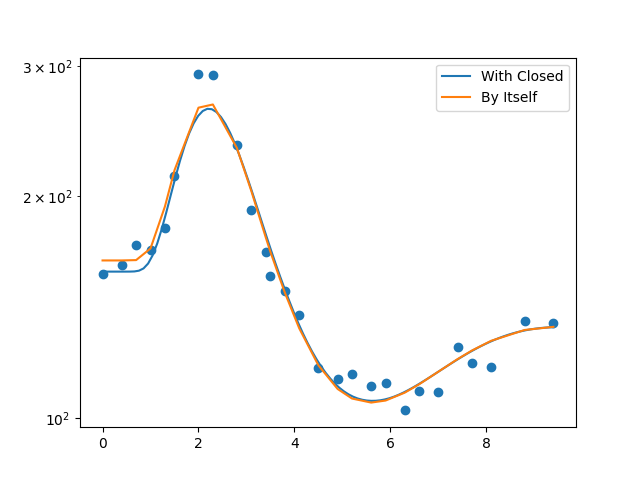
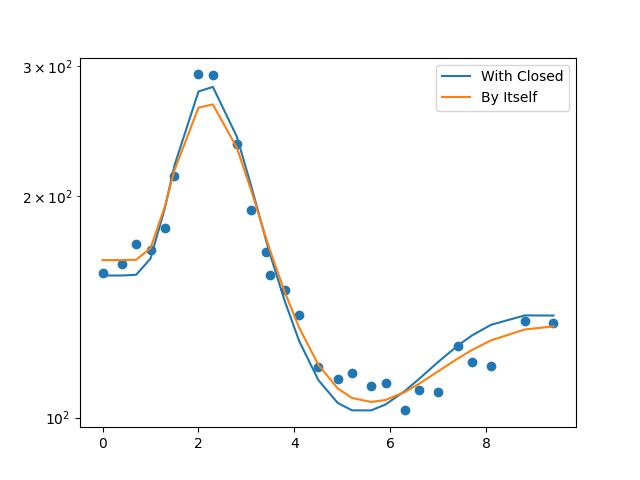
Created figs of S and P alone

diff --git a/Simulations/I0/I0_Script.py b/Simulations/I0/I0_Script.py
@@ -991,6 +991,183 @@ plt.savefig("OpenSystem_ALL.png")
 plt.close()
 
 
+#Fitting Smono open and closed all same time
+
+
+
+def MakeObjective_OffTimes_ClosedOpen(Model_Closed,Model_Open,datas,time):
+
+    def objective(params):
+        #alpha,b_closed,b_openMono,b_openCo,g1,g2,T,I0,X0_Closed,X0_OpenMono,X0_OpenCo = params
+        #alpha,b,I_closed,I_openMono,I_openCo,g1,g2,T,X0_Closed,X0_OpenMono,X0_OpenCo = params
+        alpha, b,I_closed,I_openMono,bI0,    g1_mono,g1_co,g2, T, X0_Closed,X0_OpenMono,X0_OpenCo = params
+
+        #ICs are Clsed X(0), Open X(0), and Open Q(0)
+        ICs = [10**X0_Closed]
+        #params= (alpha,b_closed,g1,g2,T,I0)
+        params = (alpha,b,g1_mono,g2,T,I_closed)
+        result_Closed = solve_ivp(Model_Closed,[0,time[0][-1]],ICs,args=tuple(params),
+                t_eval=time[0])
+
+
+
+        #params = (alpha,b_openMono,g1)
+        params = (alpha,b+I_openMono,g1_mono)
+        ICs = [10**X0_OpenMono]
+
+        result_OpenMono = solve_ivp(Model_Open,[0,time[1][-1]],ICs,args=tuple(params),
+                t_eval=time[1])
+
+
+        #params = (alpha,b_openCo,g1)
+        params = (alpha,bI0,g1_co)
+        ICs = [10**X0_OpenCo]
+
+        result_OpenCo = solve_ivp(Model_Open,[0,time[2][-1]],ICs,args=tuple(params),
+                t_eval=time[2])
+
+
+
+        output = np.concatenate((result_Closed.y[0],result_OpenMono.y[0],result_OpenCo.y[0]))
+        output[output<0] = 1e-10
+
+        return np.log10(output) - np.log10(np.concatenate((datas[0],datas[1],datas[2])))
+
+    return objective
+
+
+"""
+params_init = (0,1,2,3,     -1,Sg2,ST,0,   np.log10(S_Mono[0]),np.log10(S_Mono_Open[0]),np.log10(S_Co_Open[0]))
+lower = (-1,0,0,0,  -2,-2,0,-np.inf,  -np.inf,-np.inf,-np.inf)
+upper = (0.3,3,3,3,   1,0,1,0,  np.inf,np.inf,np.inf)
+"""
+#Params
+#alpha, B,I0,I1,BI0,    g1_mono,g1_co,g2, T
+params_init = (0,   2,-2,-1,2,  -1,-1,-3,   ST, np.log10(S_Mono[0]),np.log10(S_Mono_Open[0]),np.log10(S_Co_Open[0]))
+lower       = (0,   0,-5,-5,-5, -3,-3,-5,   0,  -np.inf,-np.inf,-np.inf)
+upper       = (0.3, 4,0,0,5,    1,1,0,      1,  np.inf,np.inf,np.inf)
+
+"""
+params_init = (0,   3,-2,-3,0,  -1,-3,ST,   np.log10(S_Mono[0]),np.log10(S_Mono_Open[0]),np.log10(S_Co_Open[0]))
+lower       = (0,   0,-4,-4,-4, -2,-4,0,    -np.inf,-np.inf,-np.inf)
+upper       = (0.3, 4,0,0,0,    1,0,1,      np.inf,np.inf,np.inf)
+"""
+
+objective = MakeObjective_OffTimes_ClosedOpen(
+        MonoCulture_Activity_I0,MonoCulture_Activity_Open,[S_Mono,S_Mono_Open,S_Co_Open],
+        [np.arange(len(S_Mono)),S_Mono_Open_Time,S_Co_Open_Time])
+results = least_squares(objective,params_init,ftol=1e-14,f_scale=0.05,loss='soft_l1',
+        bounds=[lower,upper])
+
+print("ALL S MONO")
+print(10**results.x)
+
+#Sr,Sb0,Sb1,Sb2,Sg1,Sg2,ST,SI0,SMonoClosed0,SMono0,SCo0 = results.x
+#Sr,Sb,I0,I1,I2,Sg1,Sg2,ST,SMonoClosed0,SMono0,SCo0 = results.x
+Sr,Sb,I0_closed,I0_open,bI0,Sg1_mono,Sg1_co,Sg2,ST,SMonoClosed0,SMono0,SCo0 = results.x
+
+ICs = [10**SMonoClosed0]
+
+#MonoClosed
+#params = (Sr,Sb0,Sg1,Sg2,ST,SI0)
+params = (Sr,Sb,Sg1_mono,Sg2,ST,I0_closed)
+Fitted_Mono_Closed = solve_ivp(MonoCulture_Activity_I0,[0,len(S_Mono)],ICs,args=tuple(params),
+        t_eval=np.arange(len(S_Mono)))
+
+ICs = [10**SMono0]
+#Mono
+#params = (Sr,Sb1,Sg1)
+params = (Sr,Sb+I0_open,Sg1_mono)
+Fitted_Mono = solve_ivp(MonoCulture_Activity_Open,[0,S_Mono_Open_Time[-1]],ICs,args=tuple(params),
+                t_eval=S_Mono_Open_Time)
+
+#Co
+ICs = [10**SCo0]
+#params = (Sr,Sb2,Sg1)
+params = (Sr,bI0,Sg1_co)
+Fitted_Co = solve_ivp(MonoCulture_Activity_Open,[0,S_Co_Open_Time[-1]],ICs,args=tuple(params),
+                t_eval=S_Co_Open_Time)
+
+
+plt.figure()
+
+plt.semilogy(Fitted_Mono_Closed.t,Fitted_Mono_Closed.y[0])
+plt.scatter(np.arange(len(S_Mono)),S_Mono)
+
+
+plt.semilogy(Fitted_Mono.t,Fitted_Mono.y[0])
+plt.scatter(S_Mono_Open_Time,S_Mono_Open)
+
+plt.semilogy(Fitted_Co.t,Fitted_Co.y[0])
+plt.scatter(S_Co_Open_Time,S_Co_Open)
+
+
+plt.savefig("All_S_Mono.png")
+plt.close()
+
+
+width = 40 / 25.4
+fig, ax1 = plt.subplots(figsize=(width, 30 / 25.4))
+
+s = 5
+# LEFT AXIS: Closed system
+ax1.semilogy(Fitted_Mono_Closed.t, Fitted_Mono_Closed.y[0], linewidth=1,color='k',zorder=5)
+ax1.scatter(np.arange(len(S_Mono)),S_Mono, marker='s', s=s, color='none',edgecolors='k', zorder=2,alpha = 0.5)
+
+ax1.set_yticks([1e6, 1e7, 1e8, 1e9, 1e10])
+ax1.set_yticklabels([r'$6$', r'$7$', r'$8$', r'$9$', r'$10$'])
+ax1.set_ylim(1e6, 1e10)
+
+# X axis
+ax1.set_xticks([0, 2, 4, 6, 8, 10, 12, 14])
+ax1.set_xticklabels([r'$0$', r'$2$', r'$4$', r'$6$', r'$8$', r'$10$', r'$12$', r'$14$'])
+
+
+plt.xticks(fontsize=7, fontname='Arial')
+plt.yticks(fontsize=7, fontname='Arial')
+
+
+# RIGHT AXIS: Open system
+ax2 = ax1.twinx()
+
+ax2.semilogy(Fitted_Mono.t,Fitted_Mono.y[0], linewidth=1,linestyle='dashed',color='k',zorder=5)
+ax2.scatter(S_Mono_Open_Time,S_Mono_Open, marker='o', s=s, color='none',edgecolors='k', zorder=2,alpha=0.5)
+
+ax2.semilogy(Fitted_Co.t,Fitted_Co.y[0], linewidth=1,linestyle='dashed',color='gray',zorder=5)
+ax2.scatter(S_Co_Open_Time,S_Co_Open, marker='o', s=s, color='none',edgecolors='gray', zorder=2,alpha=0.5)
+
+
+ax2.set_yticks([1e0, 1e1, 1e2, 1e3])
+ax2.set_yticklabels([r'$0$',r'$1$', r'$2$', r'$3$'])
+ax2.set_ylim(1, 1e3)
+
+plt.xticks(fontsize=7, fontname='Arial')
+plt.yticks(fontsize=7, fontname='Arial')
+
+plt.savefig("All_S_Mono.png", bbox_inches='tight', dpi=300)
+plt.close()
+
+
+
+
+
+
+
+
+
+
+
+
+
+
+
+
+
+
+
+
+
+
 
 
 
@@ -1001,17 +1178,18 @@ print("Fitting Pmono open and closed at same time")
 def MakeObjective_POffTime_ClosedOpen(Model_Closed,Model_Open,datas,time):
 
     def objective(params):
-        alpha,b_closed,b_open,g1,g2,T,I0,Ex,Ec,X0_Closed,X0_Open = params
+        #alpha,b_closed,b_open,g1,g2,T,I0,Ex,Ec,X0_Closed,X0_Open = params
+        alpha,b,IOpen,IClosed,g1,g2,T,Ex,Ec,X0_Closed,X0_Open = params
 
 
         #ICs are Clsed X(0), Open X(0), and Open Q(0)
         ICs = [10**X0_Closed]
-        params= (alpha,b_closed,g1,g2,T,I0)
+        params= (alpha,b,g1,g2,T,IClosed)
 
         result_Closed = solve_ivp(Model_Closed,[0,time[0][-1]],ICs,args=tuple(params),
                 t_eval=time[0])
 
-        params = (alpha,b_open,g1,Ex,Ec)
+        params = (alpha,b+IOpen,g1,Ex,Ec)
         ICs = [10**X0_Open,0]
 
         result_Open = solve_ivp(Model_Open,[0,time[1][-1]],ICs,args=tuple(params),
@@ -1027,24 +1205,30 @@ def MakeObjective_POffTime_ClosedOpen(Model_Closed,Model_Open,datas,time):
 
 
 
-params_init = (Pr,Pb,Pb,Pg1,Pg2,PT,0,Ex,Ec,np.log10(P_Mono[0]),np.log10(P_Open[0]))
+#params_init = (Pr,Pb,Pb,Pg1,Pg2,PT,0,Ex,Ec,np.log10(P_Mono[0]),np.log10(P_Open[0]))
+params_init = (Pr,Pb,0,0,Pg1,Pg2,PT,Ex,Ec,np.log10(P_Mono[0]),np.log10(P_Open[0]))
+
+lower = (-1,0,-5,-5,-4,-4,0,-5,-5,0,0)
+upper = (0.5,3,0,0,1,1,1,1,1,np.inf,np.inf)
 
 objective = MakeObjective_POffTime_ClosedOpen(MonoCulture_Activity_I0,MonoCulture_Activity_POpen,[P_Mono,P_Open],
         [np.arange(len(P_Mono)),P_Open_Time])
-results = least_squares(objective,params_init,ftol=1e-10,f_scale=1,loss='soft_l1')#,
-#        bounds = [lower,upper])
+results = least_squares(objective,params_init,ftol=1e-10,f_scale=1,loss='soft_l1',
+        bounds = [lower,upper])
 
 print(10**results.x)
 
 
 
-Pr,PbClosed,PbOpen,Pg1,Pg2,PT,I0,Ex,Ec,X0_Closed,X0_Open = results.x
+#Pr,PbClosed,PbOpen,Pg1,Pg2,PT,I0,Ex,Ec,X0_Closed,X0_Open = results.x
+Pr,Pb,IOpen,IClosed,Pg1,Pg2,PT,Ex,Ec,X0_Closed,X0_Open = results.x
 
-Params_Closed = (Pr,PbClosed,Pg1,Pg2,PT,I0)
+
+Params_Closed = (Pr,Pb,Pg1,Pg2,PT,IClosed)
 ICs = [10**X0_Closed]
 
 result_Closed = solve_ivp(MonoCulture_Activity_I0,[0,len(P_Mono)],ICs,args=tuple(Params_Closed),
-                t_eval=np.linspace(0,len(P_Mono),100))#np.arange(len(P_Mono)))
+                t_eval=np.arange(len(P_Mono)))
 
 
 plt.figure()
@@ -1061,11 +1245,11 @@ plt.close()
 
 
 
-Params_Open = (Pr,PbOpen,Pg1)
+Params_Open = (Pr,Pb+IOpen,Pg1,Ex,Ec)
 ICs = [10**X0_Open,0]
 
-result_Open = solve_ivp(MonoCulture_Activity_POpen,[0,P_Open_Time[-1]],ICs,args=tuple(params),
-                t_eval=np.linspace(0,P_Open_Time[-1],100))#P_Open_Time)
+result_Open = solve_ivp(MonoCulture_Activity_POpen,[0,P_Open_Time[-1]],ICs,args=tuple(Params_Open),
+                t_eval=P_Open_Time)
 
 plt.figure()
 plt.semilogy(result_Open.t,result_Open.y[0],label='With Closed')
@@ -1080,8 +1264,84 @@ plt.close()
 
 
 
+"""
+width = 40/25.4 #80/25.4
+#fig = plt.figure(figsize=(width, 30 / 25.4))
+#ax = fig.add_subplot(111)
+
+fig, ax1 = plt.subplots(figsize=(width, 30 / 25.4))
+
+#plt.figure()
+ax1.semilogy(result_Closed.t,result_Closed.y[0],linewidth=1,alpha=0.5)
+ax1.scatter(np.arange(len(P_Mono)),P_Mono,marker='+',s=10)
+
+ax1.set_yticks([1e1,1e2,1e3])
+ax1.set_yticklabels([ r'$1$',r'$2$',r'$3$'])
+
+ax1.set_ylim(10,1e3)
 
 
+ax1.set_xticks([0,2,4,6,8,10,12,14])#xticks)
+ax1.set_xticklabels([r'$0$',r'$2$',r'$4$',r'$6$',r'$8$',r'$10$',r'$12$',r'$14$'])
+
+
+
+ax2 = ax1.twinx()
+
+ax2.semilogy(result_Open.t,result_Open.y[0],linewidth=1,alpha=0.5)
+ax2.scatter(P_Open_Time,P_Open,marker='x',s=10)
+
+#plt.ylim(1e2,1e10)
+
+
+ax2.set_yticks([1e6,1e7,1e8,1e9,1e10])
+ax2.set_yticklabels([ r'$6$',r'$7$',r'$8$',r'$9$',r'$10$'])
+
+ax2.set_ylim(1e6,1e10)
+
+plt.xticks(fontsize=7,fontname='Arial')
+plt.yticks(fontsize=7,fontname='Arial')
+
+#plt.ylabel("time")
+#plt.xlabel("bacteria count")
+plt.savefig("All_P_Mono_Fitting.png",bbox_inches='tight',dpi=300)
+plt.close()
+"""
+width = 40 / 25.4
+fig, ax1 = plt.subplots(figsize=(width, 30 / 25.4))
+
+s = 5
+# LEFT AXIS: Closed system
+ax1.semilogy(result_Closed.t, result_Closed.y[0], linewidth=1,color='k')
+ax1.scatter(result_Closed.t[:len(P_Mono)], P_Mono, marker='s', s=s, color='none',edgecolors='k', zorder=5,alpha=0.5)
+
+ax1.set_yticks([1e6, 1e7, 1e8, 1e9, 1e10])
+ax1.set_yticklabels([r'$6$', r'$7$', r'$8$', r'$9$', r'$10$'])
+ax1.set_ylim(1e6, 1e10)
+
+# X axis
+ax1.set_xticks([0, 2, 4, 6, 8, 10, 12, 14])
+ax1.set_xticklabels([r'$0$', r'$2$', r'$4$', r'$6$', r'$8$', r'$10$', r'$12$', r'$14$'])
+
+
+plt.xticks(fontsize=7, fontname='Arial')
+plt.yticks(fontsize=7, fontname='Arial')
+
+
+# RIGHT AXIS: Open system
+ax2 = ax1.twinx()
+ax2.semilogy(result_Open.t, result_Open.y[0], linewidth=1,linestyle='dashed',color='k')
+ax2.scatter(P_Open_Time, P_Open, marker='o', s=s, color='none',edgecolors='k', zorder=5,alpha=0.5)
+
+ax2.set_yticks([1e1, 1e2, 1e3])
+ax2.set_yticklabels([r'$1$', r'$2$', r'$3$'])
+ax2.set_ylim(10, 1e3)
+
+plt.xticks(fontsize=7, fontname='Arial')
+plt.yticks(fontsize=7, fontname='Arial')
+
+plt.savefig("All_P_Mono_Fitting.png", bbox_inches='tight', dpi=300)
+plt.close()
 
 
 
